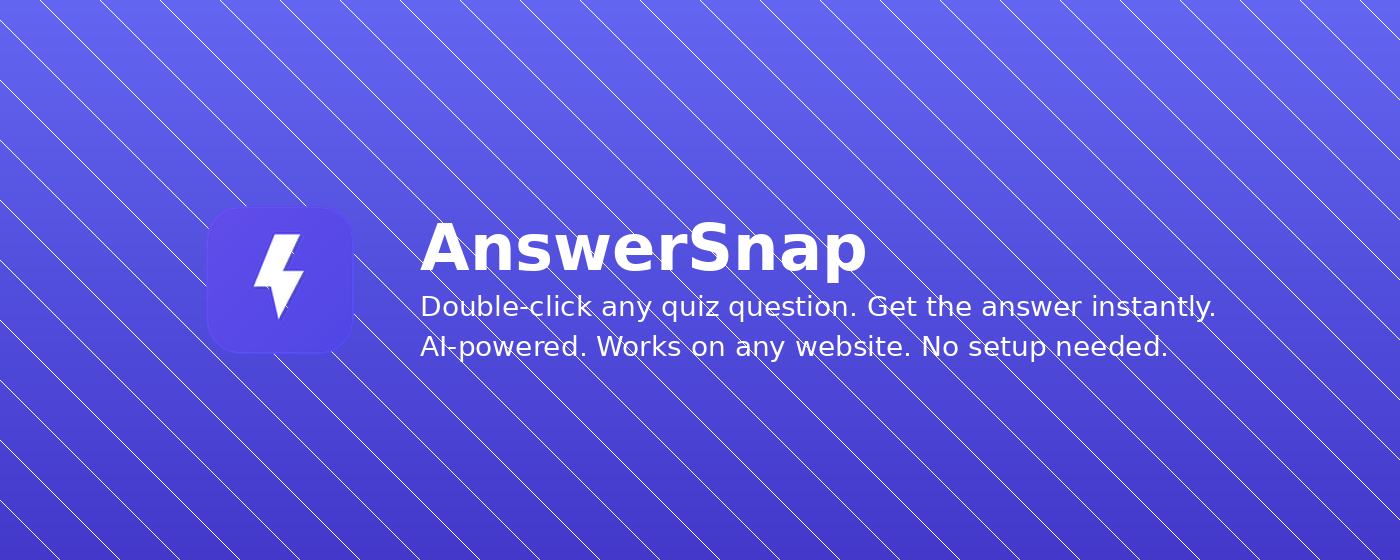
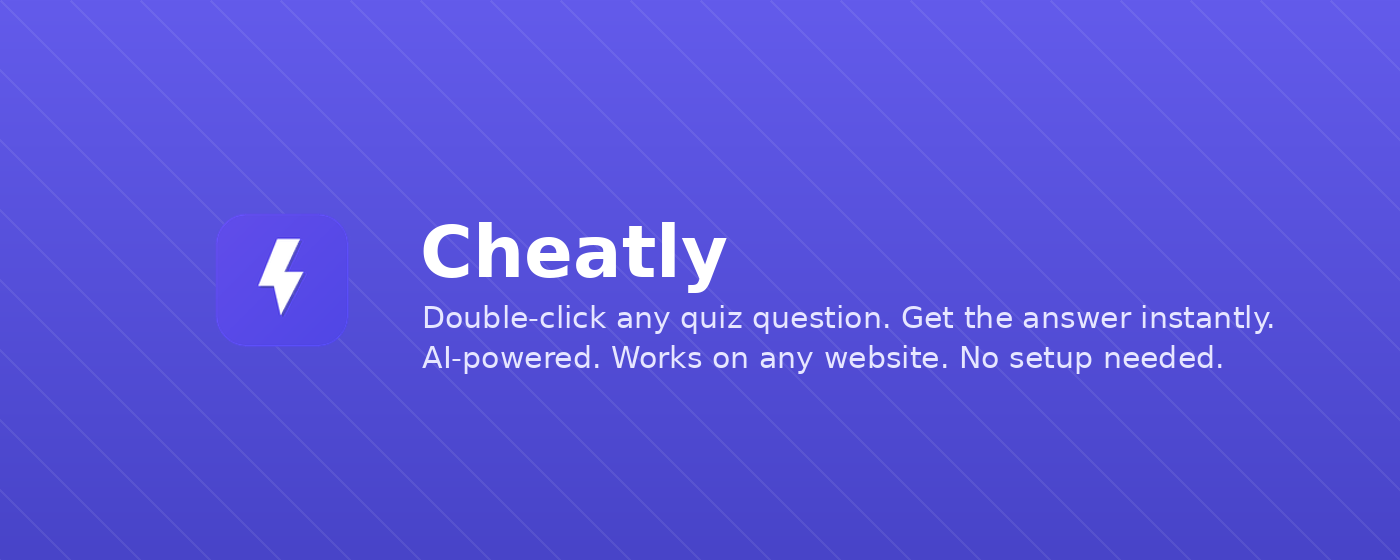
Prep Chrome Web Store submission: Cheatly promo assets, hosted privacy policy, listing URLs

Changed region(s): [[0.2764, 0.3946, 0.9214, 0.6679], [0.1843, 0.3946, 0.215, 0.5464], [0.9829, 0.9714, 1.0, 1.0]]

diff --git a/landing/privacy-policy.html b/landing/privacy-policy.html
@@ -1,0 +1,97 @@
+<!DOCTYPE html>
+<html lang="en">
+<head>
+  <meta charset="UTF-8" />
+  <meta name="viewport" content="width=device-width, initial-scale=1.0" />
+  <title>Cheatly — Privacy Policy</title>
+  <style>
+    * { margin: 0; padding: 0; box-sizing: border-box; }
+    body {
+      font-family: -apple-system, BlinkMacSystemFont, "Segoe UI", Roboto, sans-serif;
+      background: #0f0f1a;
+      color: #e2e8f0;
+      line-height: 1.7;
+      padding: 40px 20px;
+    }
+    .container {
+      max-width: 680px;
+      margin: 0 auto;
+    }
+    h1 {
+      font-size: 28px;
+      margin-bottom: 8px;
+      background: linear-gradient(135deg, #818cf8, #6366f1);
+      -webkit-background-clip: text;
+      -webkit-text-fill-color: transparent;
+      background-clip: text;
+    }
+    .updated {
+      font-size: 13px;
+      color: #64748b;
+      margin-bottom: 32px;
+    }
+    h2 {
+      font-size: 18px;
+      color: #818cf8;
+      margin: 28px 0 10px;
+    }
+    p, li {
+      font-size: 15px;
+      color: #cbd5e1;
+      margin-bottom: 12px;
+    }
+    ul {
+      padding-left: 24px;
+      margin-bottom: 12px;
+    }
+    a { color: #818cf8; }
+  </style>
+</head>
+<body>
+  <div class="container">
+    <h1>Cheatly Privacy Policy</h1>
+    <p class="updated">Last updated: May 2025</p>
+
+    <h2>Overview</h2>
+    <p>Cheatly is a Chrome extension that uses AI vision to answer questions visible on your screen. Your privacy is important to us. This policy explains what data the extension accesses, how it is used, and what is stored.</p>
+
+    <h2>Data Collection</h2>
+    <p>Cheatly does <strong>not</strong> collect, transmit, or store any personal information on our servers. The extension has no backend server and no analytics.</p>
+
+    <h2>Data Processed Locally</h2>
+    <ul>
+      <li><strong>OpenAI API Key</strong> — You provide your own API key, which is stored locally in Chrome's <code>chrome.storage.local</code>. It never leaves your browser except when sent directly to the OpenAI API.</li>
+      <li><strong>Extension Settings</strong> — Display mode and model preferences are stored locally in <code>chrome.storage.local</code>.</li>
+    </ul>
+
+    <h2>Data Sent to Third Parties</h2>
+    <ul>
+      <li><strong>OpenAI API</strong> — When you double-click a question, a screenshot of the currently visible tab is captured and sent to the OpenAI API (<code>api.openai.com</code>) along with your API key for processing. This is the only external network request the extension makes.</li>
+      <li>No data is sent to any other third party. There are no analytics, tracking pixels, or advertising services.</li>
+    </ul>
+
+    <h2>Screenshots</h2>
+    <p>Screenshots are captured on-demand only (when you double-click). They are sent directly to the OpenAI API and are not saved to disk, uploaded to any server we control, or retained after the API response is received.</p>
+
+    <h2>Permissions</h2>
+    <ul>
+      <li><strong>activeTab</strong> — Required to capture a screenshot of the current tab when you double-click.</li>
+      <li><strong>storage</strong> — Required to save your API key and preferences locally.</li>
+      <li><strong>scripting</strong> — Required to inject the content script that listens for double-click events.</li>
+      <li><strong>host_permissions (&lt;all_urls&gt;)</strong> — Required so the content script can run on any webpage where you might have a question.</li>
+    </ul>
+
+    <h2>Data Retention</h2>
+    <p>All data is stored locally in your browser. Uninstalling the extension removes all stored data. No data is retained on any external server controlled by Cheatly.</p>
+
+    <h2>Children's Privacy</h2>
+    <p>This extension is not directed at children under 13. We do not knowingly collect data from children.</p>
+
+    <h2>Changes to This Policy</h2>
+    <p>We may update this policy from time to time. Changes will be reflected in the "Last updated" date above.</p>
+
+    <h2>Contact</h2>
+    <p>If you have questions about this privacy policy, please open an issue on our <a href="https://github.com/tamaratran/answersnap">GitHub repository</a>.</p>
+  </div>
+</body>
+</html>

diff --git a/STORE_LISTING.md b/STORE_LISTING.md
@@ -46,6 +46,11 @@ Productivity
 ## Language
 English
 
+## URLs
+- Homepage / official website: https://cheatly.xyz
+- Privacy policy: https://cheatly.xyz/privacy-policy.html
+- Support: https://cheatly.xyz (or the GitHub repository issues page)
+
 ## Assets
 
 | Asset | File | Dimensions |
